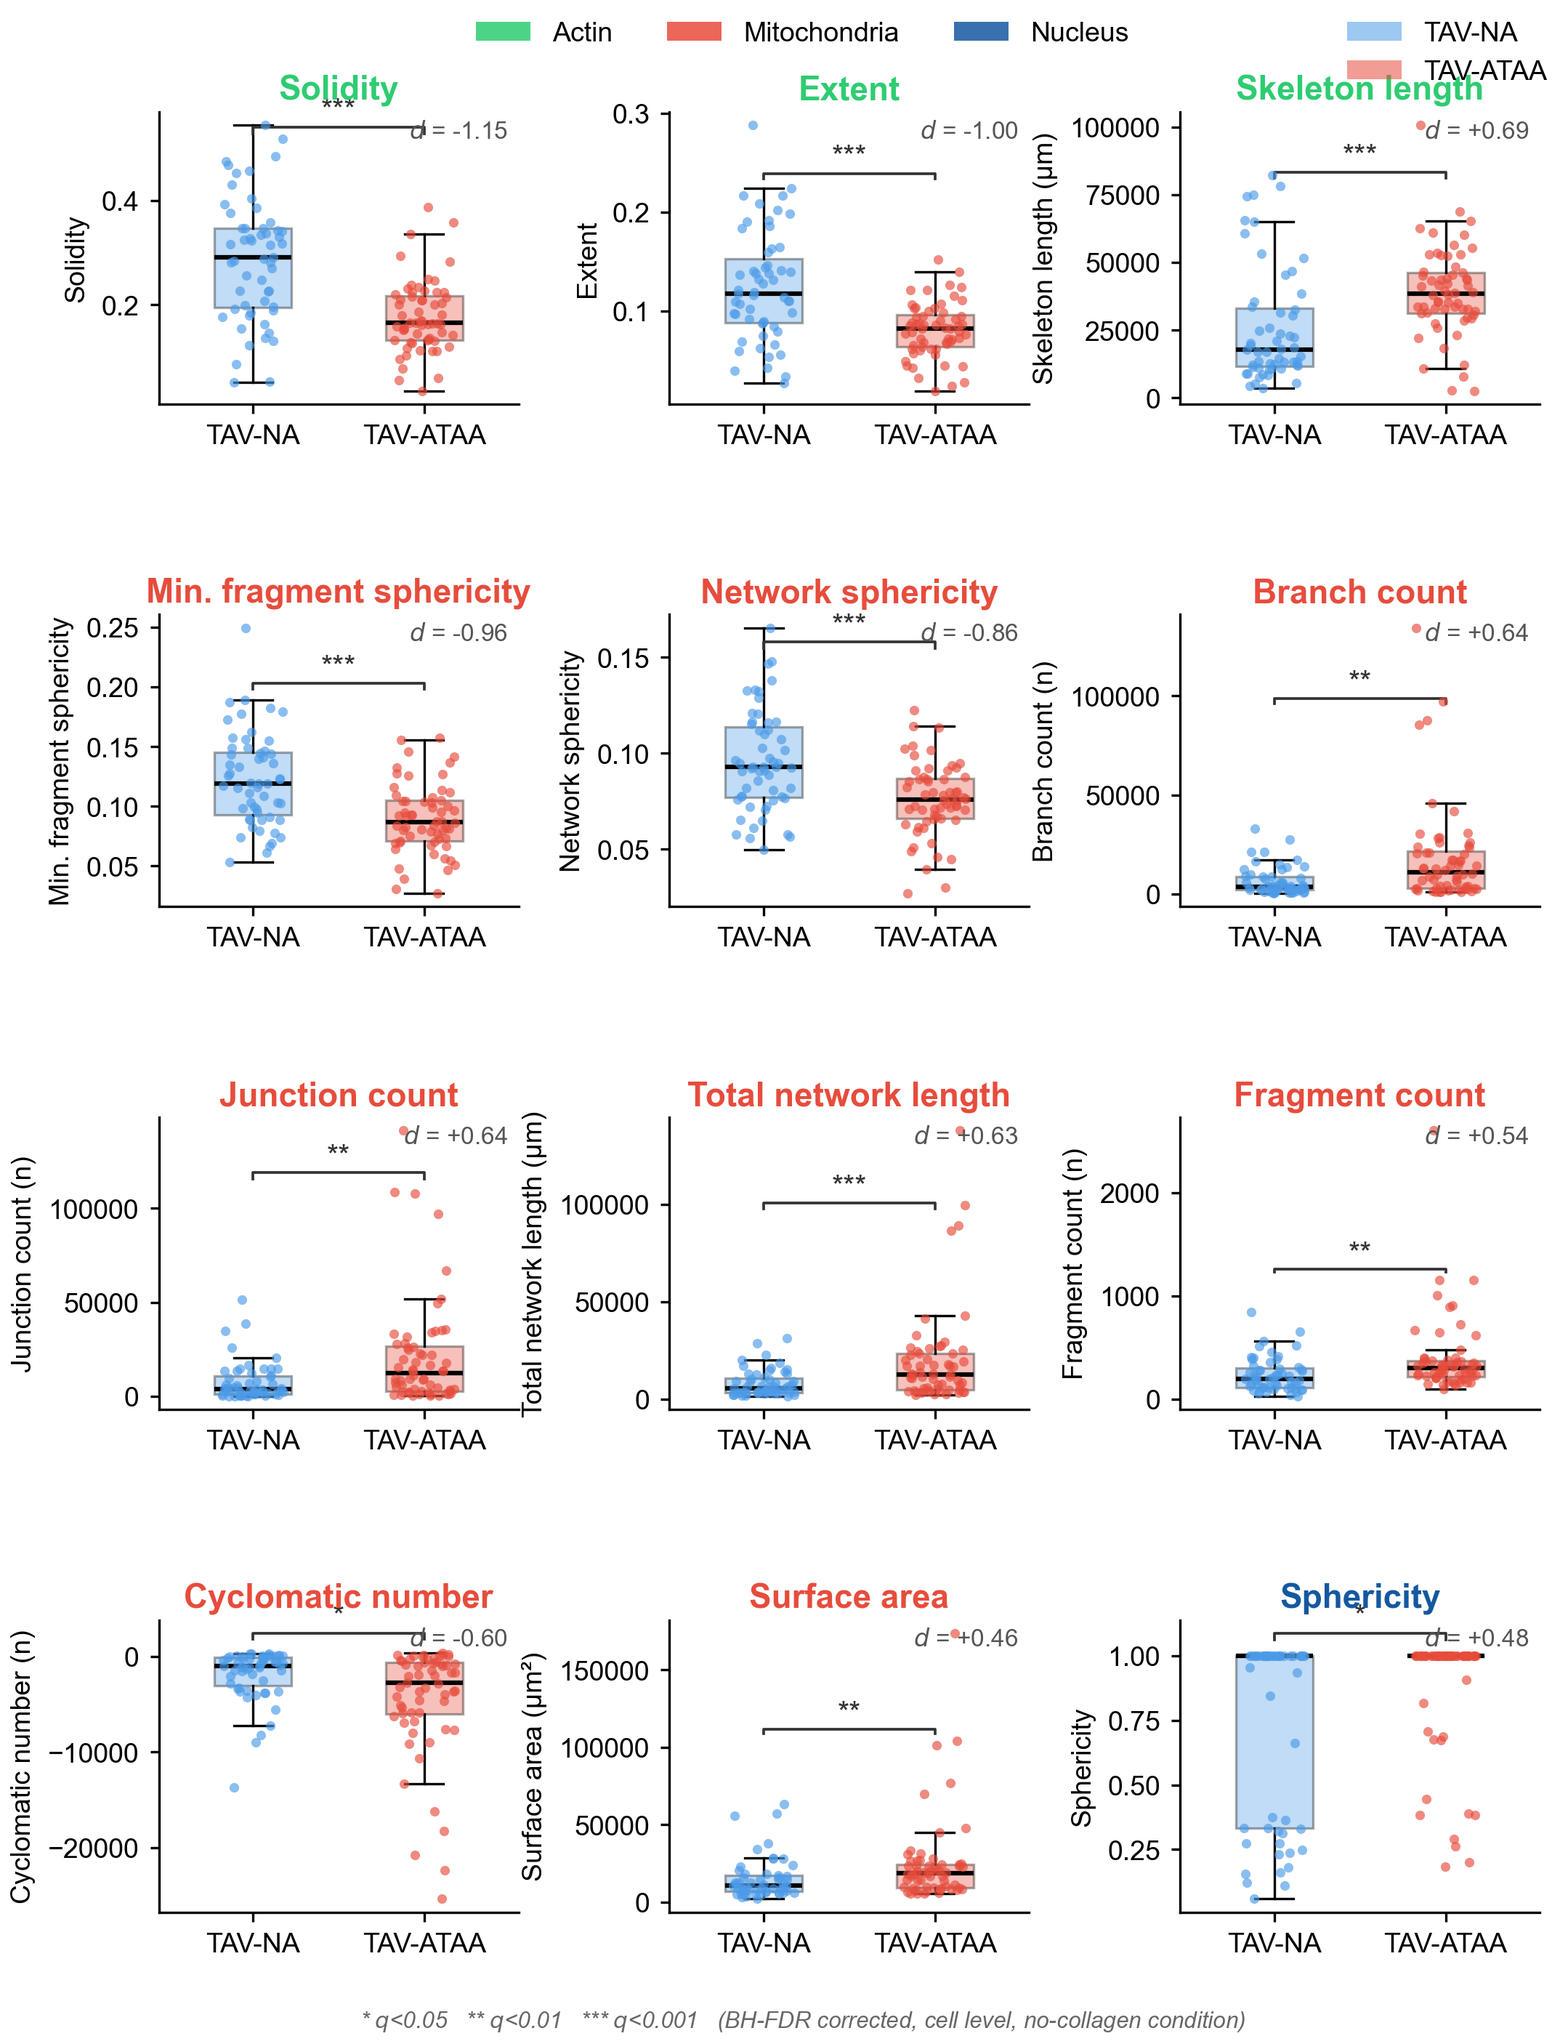
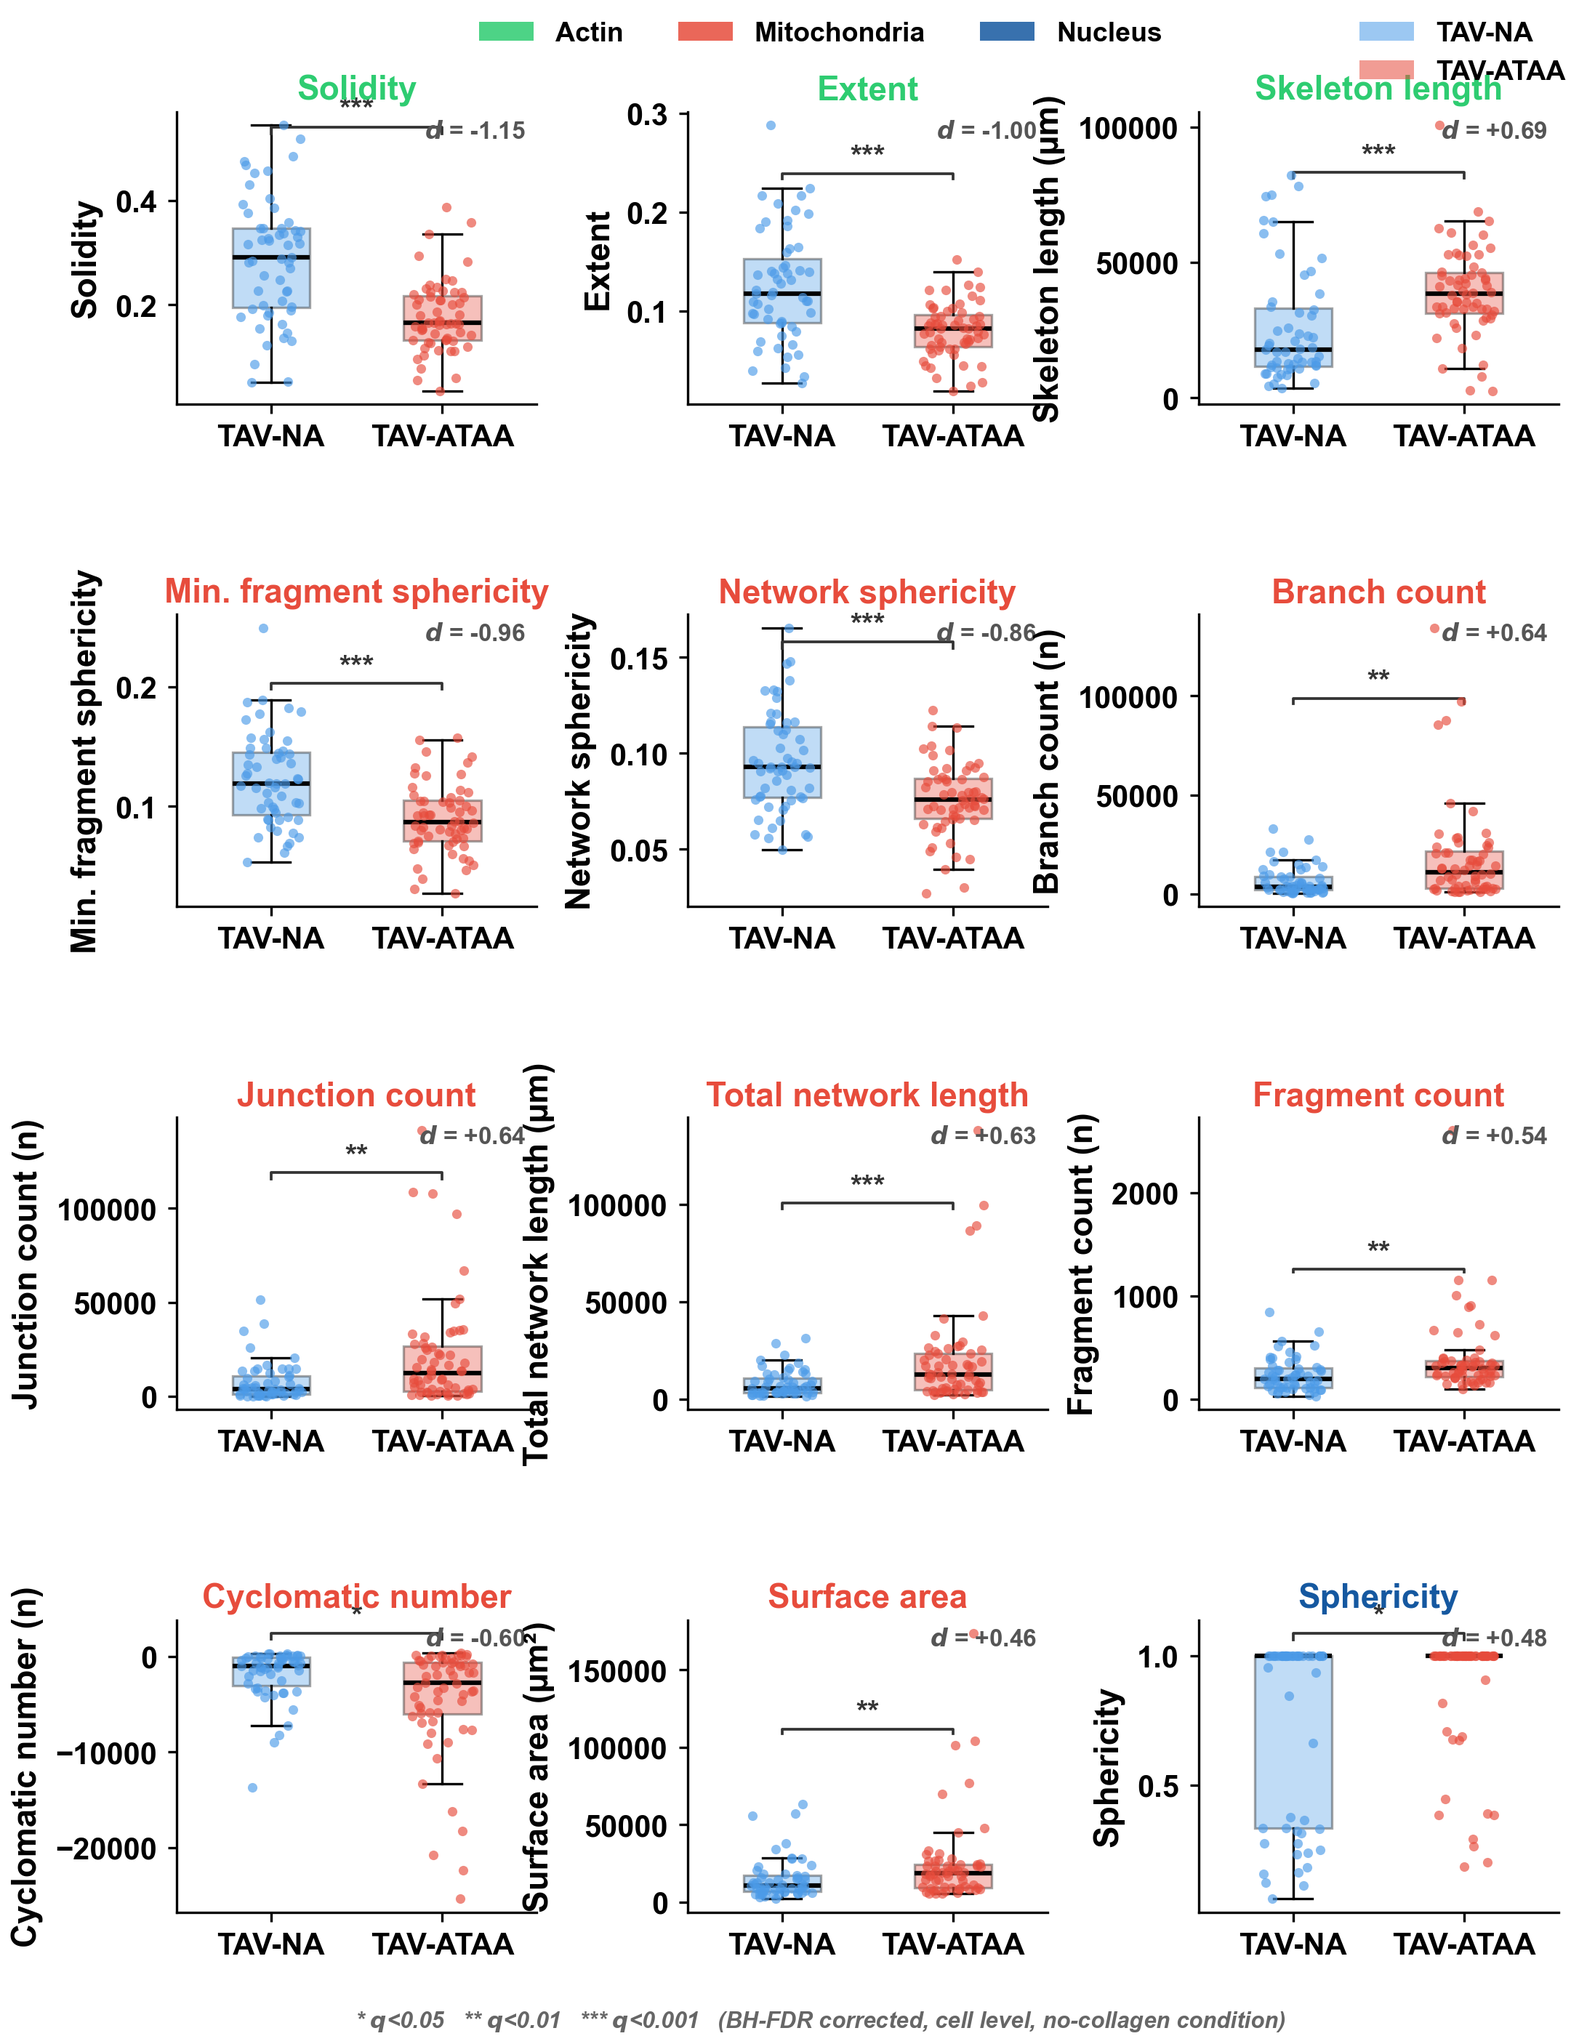
bold axis labels and tick labels in all outputs/figures composites

diff --git a/src/analysis/plot_part1_l3_l5_composite.py b/src/analysis/plot_part1_l3_l5_composite.py
@@ -76,12 +76,15 @@ def get_organelle(f):
 plt.rcParams.update({
     'font.family':        'Arial',
     'font.sans-serif':    ['Arial'],
-    'font.size':          9,
-    'axes.labelsize':     9,
-    'axes.titlesize':     10,
-    'xtick.labelsize':    8,
-    'ytick.labelsize':    8,
-    'legend.fontsize':    9,
+    'font.size':          11,
+    'font.weight':        'bold',
+    'axes.labelsize':     12,
+    'axes.labelweight':   'bold',
+    'axes.titlesize':     11,
+    'axes.titleweight':   'bold',
+    'xtick.labelsize':    10,
+    'ytick.labelsize':    10,
+    'legend.fontsize':    10,
     'axes.linewidth':     0.8,
     'xtick.major.width':  0.8,
     'ytick.major.width':  0.8,
@@ -128,9 +131,9 @@ vmax_lmm = max(3.0, float(np.abs(pivot.values).max()))
 im_lmm = ax_lmm.imshow(pivot.values, aspect='auto',
                         cmap='RdBu_r', vmin=-vmax_lmm, vmax=vmax_lmm)
 ax_lmm.set_xticks(np.arange(n_t))
-ax_lmm.set_xticklabels(term_order, fontsize=8.5)
+ax_lmm.set_xticklabels(term_order, fontsize=10, fontweight='bold')
 ax_lmm.set_yticks(np.arange(n_f))
-ax_lmm.set_yticklabels(y_labels_lmm, fontsize=7.5)
+ax_lmm.set_yticklabels(y_labels_lmm, fontsize=10, fontweight='bold')
 ax_lmm.set_xticks(np.arange(-0.5, n_t, 1), minor=True)
 ax_lmm.set_yticks(np.arange(-0.5, n_f, 1), minor=True)
 ax_lmm.grid(which='minor', color='white', linewidth=0.6)
@@ -145,13 +148,13 @@ for i in range(n_f):
                         ha='center', va='center', fontsize=8, color='black')
 
 cbar_lmm = fig.colorbar(im_lmm, ax=ax_lmm, fraction=0.04, pad=0.03)
-cbar_lmm.set_label(r'$-\log_{10}(q)\times\mathrm{sign(\beta)}$', fontsize=7.5)
-cbar_lmm.ax.tick_params(labelsize=7)
+cbar_lmm.set_label(r'$-\log_{10}(q)\times\mathrm{sign(\beta)}$', fontsize=10, fontweight='bold')
+cbar_lmm.ax.tick_params(labelsize=9)
 # no dashed threshold lines
 
 ax_lmm.text(-0.18, 1.02, 'A', transform=ax_lmm.transAxes,
             fontsize=13, fontweight='bold', va='bottom')
-ax_lmm.set_title('LMM — fixed effects', fontsize=9, pad=4, loc='left')
+ax_lmm.set_title('LMM — fixed effects', fontsize=10, pad=4, loc='left', fontweight='bold')
 
 # ══════════════════════════════════════════════════════════════════════════════
 # PANEL B — Sex heatmap (Cohen's d Male−Female within each group)
@@ -198,9 +201,9 @@ vmax_sexh = max(2.0, float(d_df.abs().values.max()))
 im_sexh = ax_sexh.imshow(d_df.values, aspect='auto',
                           cmap='RdBu_r', vmin=-vmax_sexh, vmax=vmax_sexh)
 ax_sexh.set_xticks(range(n_ch))
-ax_sexh.set_xticklabels(col_labels, fontsize=8)
+ax_sexh.set_xticklabels(col_labels, fontsize=10, fontweight='bold')
 ax_sexh.set_yticks(range(n_fh))
-ax_sexh.set_yticklabels(y_labels_sexh, fontsize=7.5)
+ax_sexh.set_yticklabels(y_labels_sexh, fontsize=10, fontweight='bold')
 ax_sexh.set_xticks(np.arange(-0.5, n_ch, 1), minor=True)
 ax_sexh.set_yticks(np.arange(-0.5, n_fh, 1), minor=True)
 ax_sexh.grid(which='minor', color='white', linewidth=0.6)
@@ -213,12 +216,12 @@ for i in range(n_fh):
                          ha='center', va='center', fontsize=8, color='black')
 
 cbar_sexh = fig.colorbar(im_sexh, ax=ax_sexh, fraction=0.08, pad=0.04)
-cbar_sexh.set_label("Cohen's $d$ (Male−Female)", fontsize=7.5)
-cbar_sexh.ax.tick_params(labelsize=7)
+cbar_sexh.set_label("Cohen's $d$ (Male−Female)", fontsize=10, fontweight='bold')
+cbar_sexh.ax.tick_params(labelsize=9)
 
 ax_sexh.text(-0.30, 1.02, 'B', transform=ax_sexh.transAxes,
              fontsize=13, fontweight='bold', va='bottom')
-ax_sexh.set_title('Sex heatmap', fontsize=9, pad=4, loc='left')
+ax_sexh.set_title('Sex heatmap', fontsize=10, pad=4, loc='left', fontweight='bold')
 
 # ══════════════════════════════════════════════════════════════════════════════
 # PANEL C — Sex effect bars (patient + cell)
@@ -235,8 +238,8 @@ def draw_sex_bars(ax, res, panel_letter, sublabel):
         parts = f.split('_', 1)
         labels.append(parts[1].replace('_', ' ') if len(parts) > 1 else f.replace('_', ' '))
     ax.set_yticks(range(len(sub)))
-    ax.set_yticklabels(labels, fontsize=7.5)
-    ax.set_xlabel("Cohen's $d$  (Female → Male)", fontsize=8.5)
+    ax.set_yticklabels(labels, fontsize=10, fontweight='bold')
+    ax.set_xlabel("Cohen's $d$  (Female → Male)", fontsize=12, fontweight='bold')
 
     # stars annotation
     xlim = ax.get_xlim()
@@ -264,7 +267,7 @@ def draw_sex_bars(ax, res, panel_letter, sublabel):
         min_q  = sub.loc[sub['Significant'], 'BH_q'].min()
         title_str = f'{sublabel}  {sig_stars(min_q)}'
 
-    ax.set_title(title_str, fontsize=9, pad=4, loc='left')
+    ax.set_title(title_str, fontsize=10, pad=4, loc='left', fontweight='bold')
 
     ax.set_axisbelow(True)
     ax.xaxis.grid(True, color='#dddddd', linewidth=0.5, linestyle='--')

diff --git a/src/analysis/plot_part2_l3_l5_composite.py b/src/analysis/plot_part2_l3_l5_composite.py
@@ -73,12 +73,15 @@ feat_cols = [c for c in pt_means.columns
 plt.rcParams.update({
     'font.family':        'Arial',
     'font.sans-serif':    ['Arial'],
-    'font.size':          9,
-    'axes.labelsize':     9,
-    'axes.titlesize':     10,
-    'xtick.labelsize':    8,
-    'ytick.labelsize':    8,
-    'legend.fontsize':    9,
+    'font.size':          11,
+    'font.weight':        'bold',
+    'axes.labelsize':     12,
+    'axes.labelweight':   'bold',
+    'axes.titlesize':     11,
+    'axes.titleweight':   'bold',
+    'xtick.labelsize':    10,
+    'ytick.labelsize':    10,
+    'legend.fontsize':    10,
     'axes.linewidth':     0.8,
     'xtick.major.width':  0.8,
     'ytick.major.width':  0.8,
@@ -126,9 +129,9 @@ vmax_lmm = max(3.0, float(np.abs(pivot.values).max()))
 im_lmm = ax_lmm.imshow(pivot.values, aspect='auto',
                         cmap='RdBu_r', vmin=-vmax_lmm, vmax=vmax_lmm)
 ax_lmm.set_xticks(np.arange(n_t))
-ax_lmm.set_xticklabels(term_order, fontsize=8.5)
+ax_lmm.set_xticklabels(term_order, fontsize=10, fontweight='bold')
 ax_lmm.set_yticks(np.arange(n_f))
-ax_lmm.set_yticklabels(y_labels_lmm, fontsize=7.5)
+ax_lmm.set_yticklabels(y_labels_lmm, fontsize=10, fontweight='bold')
 ax_lmm.set_xticks(np.arange(-0.5, n_t, 1), minor=True)
 ax_lmm.set_yticks(np.arange(-0.5, n_f, 1), minor=True)
 ax_lmm.grid(which='minor', color='white', linewidth=0.6)
@@ -141,12 +144,12 @@ for i in range(n_f):
                         ha='center', va='center', fontsize=8, color='black')
 
 cbar_lmm = fig.colorbar(im_lmm, ax=ax_lmm, fraction=0.04, pad=0.03)
-cbar_lmm.set_label(r'$-\log_{10}(q)\times\mathrm{sign(\beta)}$', fontsize=7.5)
+cbar_lmm.set_label(r'$-\log_{10}(q)\times\mathrm{sign(\beta)}$', fontsize=10, fontweight='bold')
 cbar_lmm.ax.tick_params(labelsize=7)
 
 ax_lmm.text(-0.18, 1.02, 'A', transform=ax_lmm.transAxes,
             fontsize=13, fontweight='bold', va='bottom')
-ax_lmm.set_title('LMM — fixed effects', fontsize=9, pad=4, loc='left')
+ax_lmm.set_title('LMM — fixed effects', fontsize=10, pad=4, loc='left', fontweight='bold')
 
 # ══════════════════════════════════════════════════════════════════════════════
 # PANEL B — Sex heatmap
@@ -193,9 +196,9 @@ vmax_sexh = max(2.0, float(d_df.abs().values.max()))
 im_sexh = ax_sexh.imshow(d_df.values, aspect='auto',
                           cmap='RdBu_r', vmin=-vmax_sexh, vmax=vmax_sexh)
 ax_sexh.set_xticks(range(n_ch))
-ax_sexh.set_xticklabels(col_labels, fontsize=8)
+ax_sexh.set_xticklabels(col_labels, fontsize=10, fontweight='bold')
 ax_sexh.set_yticks(range(n_fh))
-ax_sexh.set_yticklabels(y_labels_sexh, fontsize=7.5)
+ax_sexh.set_yticklabels(y_labels_sexh, fontsize=10, fontweight='bold')
 ax_sexh.set_xticks(np.arange(-0.5, n_ch, 1), minor=True)
 ax_sexh.set_yticks(np.arange(-0.5, n_fh, 1), minor=True)
 ax_sexh.grid(which='minor', color='white', linewidth=0.6)
@@ -208,12 +211,12 @@ for i in range(n_fh):
                          ha='center', va='center', fontsize=8, color='black')
 
 cbar_sexh = fig.colorbar(im_sexh, ax=ax_sexh, fraction=0.08, pad=0.04)
-cbar_sexh.set_label("Cohen's $d$ (Male−Female)", fontsize=7.5)
+cbar_sexh.set_label("Cohen's $d$ (Male−Female)", fontsize=10, fontweight='bold')
 cbar_sexh.ax.tick_params(labelsize=7)
 
 ax_sexh.text(-0.30, 1.02, 'B', transform=ax_sexh.transAxes,
              fontsize=13, fontweight='bold', va='bottom')
-ax_sexh.set_title('Sex heatmap', fontsize=9, pad=4, loc='left')
+ax_sexh.set_title('Sex heatmap', fontsize=10, pad=4, loc='left', fontweight='bold')
 
 # ══════════════════════════════════════════════════════════════════════════════
 # PANEL C — Sex effect bars (patient + cell)
@@ -230,8 +233,8 @@ def draw_sex_bars(ax, res, panel_letter, sublabel):
         parts = f.split('_', 1)
         labels.append(parts[1].replace('_', ' ') if len(parts) > 1 else f.replace('_', ' '))
     ax.set_yticks(range(len(sub)))
-    ax.set_yticklabels(labels, fontsize=7.5)
-    ax.set_xlabel("Cohen's $d$  (Female → Male)", fontsize=8.5)
+    ax.set_yticklabels(labels, fontsize=10, fontweight='bold')
+    ax.set_xlabel("Cohen's $d$  (Female → Male)", fontsize=12, fontweight='bold')
 
     xlim = ax.get_xlim()
     pad  = (xlim[1] - xlim[0]) * 0.04
@@ -257,7 +260,7 @@ def draw_sex_bars(ax, res, panel_letter, sublabel):
         min_q = sub.loc[sub['Significant'], 'BH_q'].min()
         title_str = f'{sublabel}  {sig_stars(min_q)}'
 
-    ax.set_title(title_str, fontsize=9, pad=4, loc='left')
+    ax.set_title(title_str, fontsize=10, pad=4, loc='left', fontweight='bold')
     ax.set_axisbelow(True)
     ax.xaxis.grid(True, color='#dddddd', linewidth=0.5, linestyle='--')
     ax.spines['top'].set_visible(False)

diff --git a/src/analysis/plot_part1_cell_l1_composite.py b/src/analysis/plot_part1_cell_l1_composite.py
@@ -81,11 +81,14 @@ df = df[df['Disease'].isin(['Healthy', 'TAA'])]
 plt.rcParams.update({
     'font.family':       'Arial',
     'font.sans-serif':   ['Arial'],
-    'font.size':         10,
-    'axes.labelsize':    10,
-    'axes.titlesize':    11,
-    'xtick.labelsize':   9,
-    'ytick.labelsize':   9,
+    'font.size':         11,
+    'font.weight':       'bold',
+    'axes.labelsize':    12,
+    'axes.labelweight':  'bold',
+    'axes.titlesize':    12,
+    'axes.titleweight':  'bold',
+    'xtick.labelsize':   10,
+    'ytick.labelsize':   10,
     'axes.linewidth':    0.8,
     'xtick.major.width': 0.8,
     'ytick.major.width': 0.8,
@@ -162,9 +165,9 @@ for idx, (organelle, col, name, unit) in enumerate(FEATURES):
 
     # ── axes labels ───────────────────────────────────────────────────────────
     y_label = name if unit == 'ratio' else f'{name} ({unit})'
-    ax.set_ylabel(y_label, fontsize=9)
+    ax.set_ylabel(y_label, fontsize=11, fontweight='bold')
     ax.set_xticks([0, 1])
-    ax.set_xticklabels(['TAV-NA', 'TAV-ATAA'], fontsize=9)
+    ax.set_xticklabels(['TAV-NA', 'TAV-ATAA'], fontsize=10, fontweight='bold')
     ax.set_xlim(-0.55, 1.55)
 
     # ── panel title ───────────────────────────────────────────────────────────

diff --git a/src/analysis/plot_part1_cohens_d_composite.py b/src/analysis/plot_part1_cohens_d_composite.py
@@ -50,11 +50,14 @@ def sig_stars(q):
 plt.rcParams.update({
     'font.family':       'Arial',
     'font.sans-serif':   ['Arial'],
-    'font.size':         9,
-    'axes.labelsize':    9,
-    'axes.titlesize':    10,
-    'xtick.labelsize':   8,
-    'ytick.labelsize':   8,
+    'font.size':         11,
+    'font.weight':       'bold',
+    'axes.labelsize':    12,
+    'axes.labelweight':  'bold',
+    'axes.titlesize':    11,
+    'axes.titleweight':  'bold',
+    'xtick.labelsize':   10,
+    'ytick.labelsize':   10,
     'axes.linewidth':    0.8,
     'xtick.major.width': 0.8,
     'ytick.major.width': 0.8,
@@ -125,14 +128,14 @@ for ax, df, panel_label, title, footer_txt in PANELS:
     ax.xaxis.grid(True, color='#dddddd', linewidth=0.5, linestyle='--')
 
     ax.set_yticks(y_pos)
-    ax.set_yticklabels(ylabels, fontsize=8)
-    ax.set_xlabel("Cohen's $d$  (TAV-ATAA − TAV-NA)", fontsize=8.5)
+    ax.set_yticklabels(ylabels, fontsize=10, fontweight='bold')
+    ax.set_xlabel("Cohen's $d$  (TAV-ATAA − TAV-NA)", fontsize=12, fontweight='bold')
 
     # panel label + title
     ax.text(-0.22, 1.02, panel_label,
             transform=ax.transAxes,
             fontsize=13, fontweight='bold', va='bottom', ha='left')
-    ax.set_title(title, fontsize=9, pad=4, loc='left', color='#333333')
+    ax.set_title(title, fontsize=10, pad=4, loc='left', color='#333333', fontweight='bold')
 
 
     ax.spines['top'].set_visible(False)

diff --git a/src/analysis/plot_part2_collagen_rescue_composite.py b/src/analysis/plot_part2_collagen_rescue_composite.py
@@ -90,11 +90,14 @@ res_pt = res_pt.set_index('Feature')
 plt.rcParams.update({
     'font.family':        'Arial',
     'font.sans-serif':    ['Arial'],
-    'font.size':          10,
-    'axes.labelsize':     10,
-    'axes.titlesize':     11,
-    'xtick.labelsize':    8.5,
-    'ytick.labelsize':    9,
+    'font.size':          11,
+    'font.weight':        'bold',
+    'axes.labelsize':     12,
+    'axes.labelweight':   'bold',
+    'axes.titlesize':     12,
+    'axes.titleweight':   'bold',
+    'xtick.labelsize':    10,
+    'ytick.labelsize':    10,
     'axes.linewidth':     0.8,
     'xtick.major.width':  0.8,
     'ytick.major.width':  0.8,
@@ -206,9 +209,9 @@ for idx, (organelle, col, name, unit) in enumerate(FEATURES):
 
     # ── axes labels ───────────────────────────────────────────────────────────
     y_label = name if unit == 'ratio' else f'{name} ({unit})'
-    ax.set_ylabel(y_label, fontsize=9)
+    ax.set_ylabel(y_label, fontsize=11, fontweight='bold')
     ax.set_xticks(positions)
-    ax.set_xticklabels(xtick_lbls, fontsize=8)
+    ax.set_xticklabels(xtick_lbls, fontsize=10, fontweight='bold')
     ax.set_xlim(-0.6, 4.0)
 
     ax.set_title(name, fontsize=11, fontweight='bold', pad=4, color=org_color)
